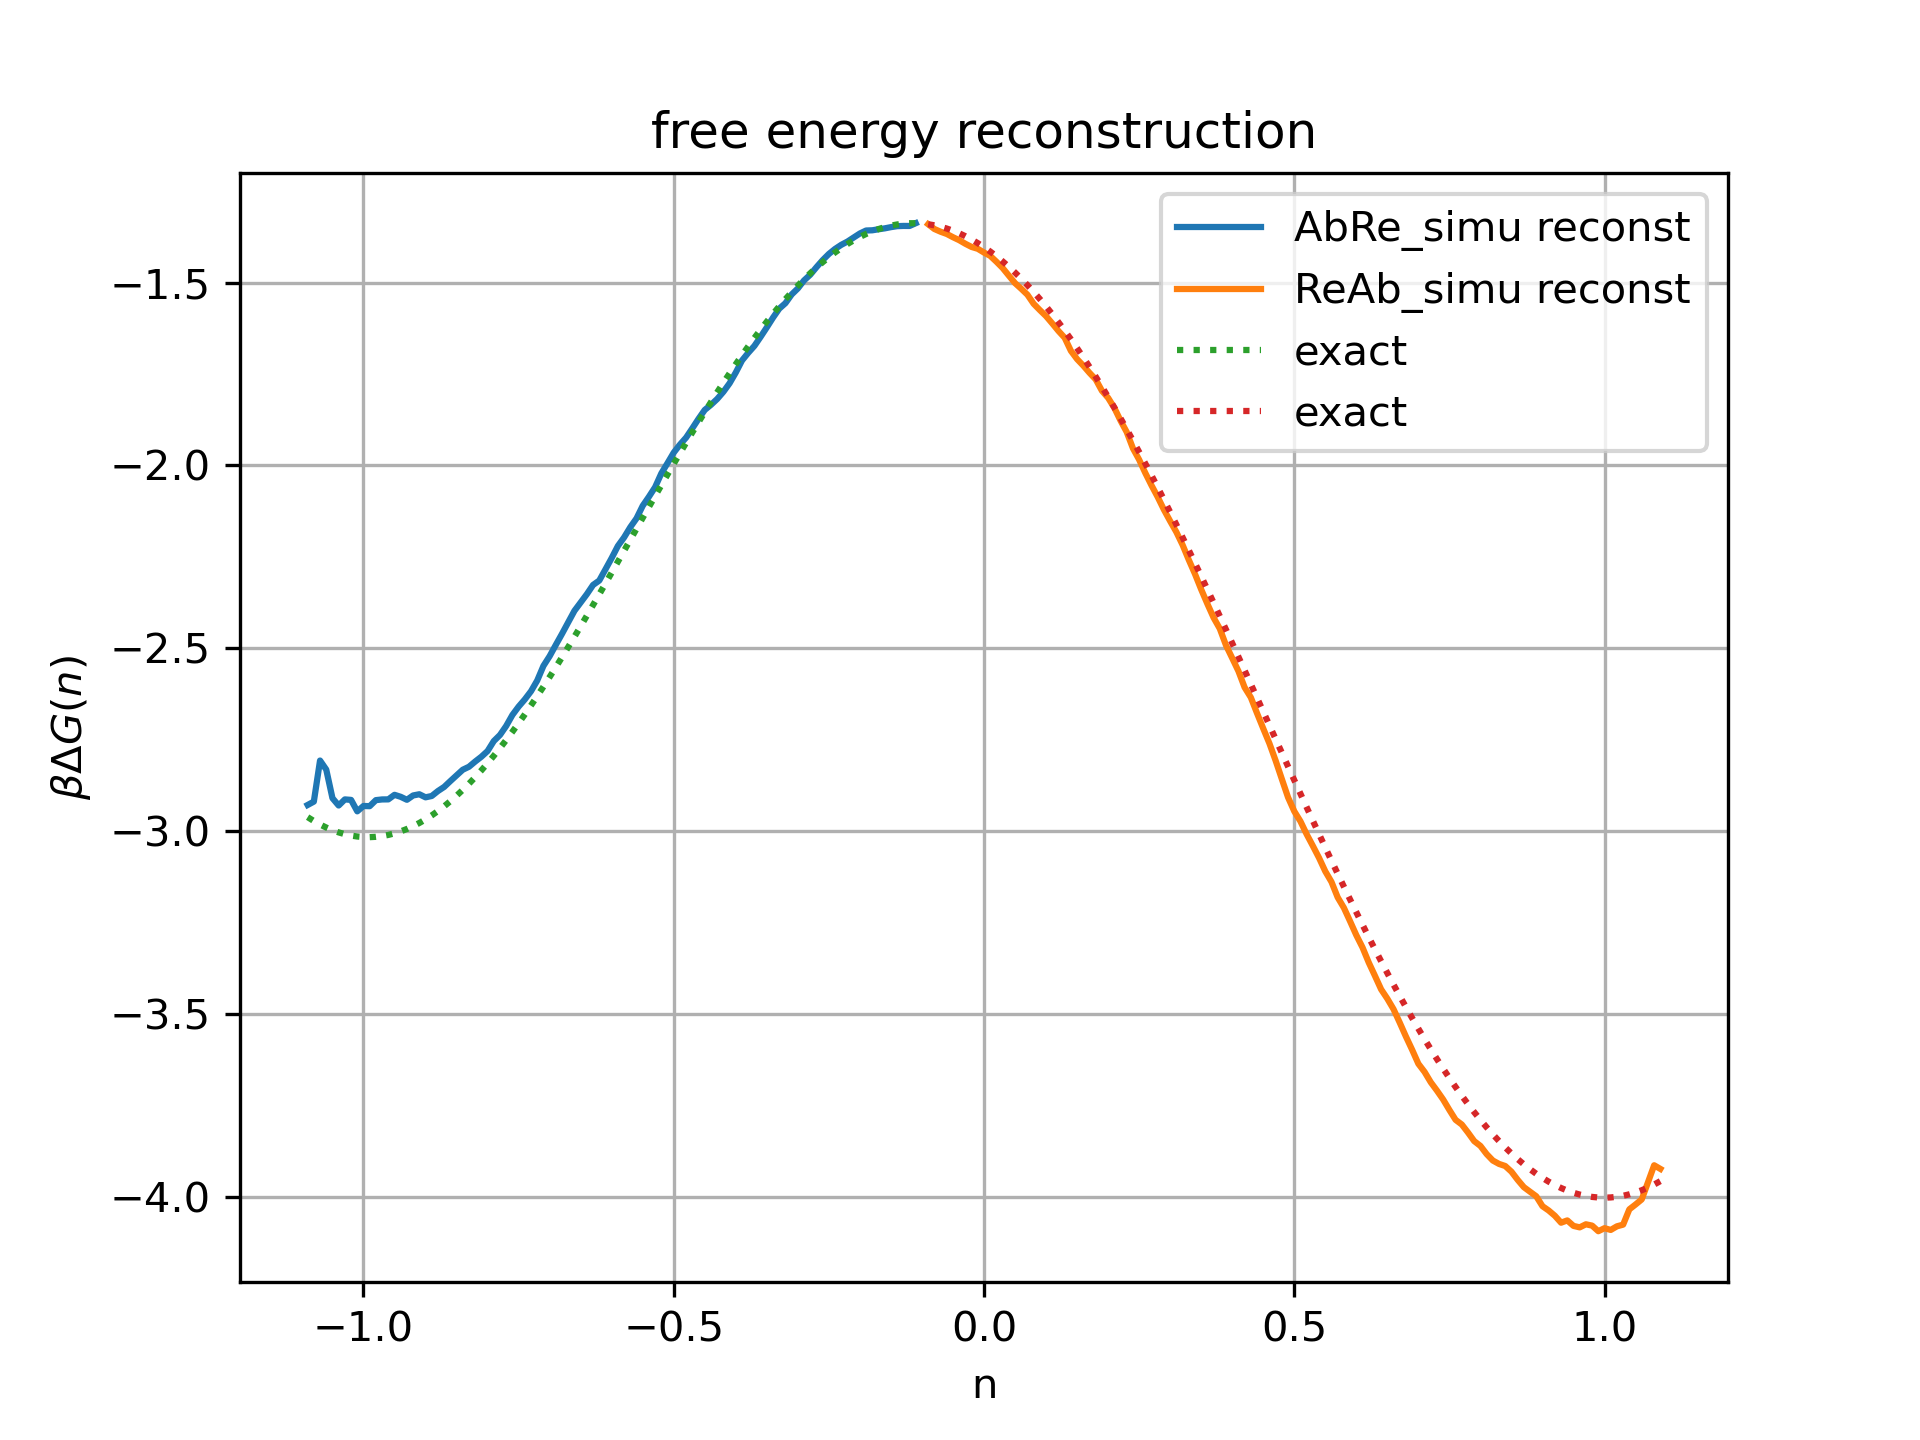
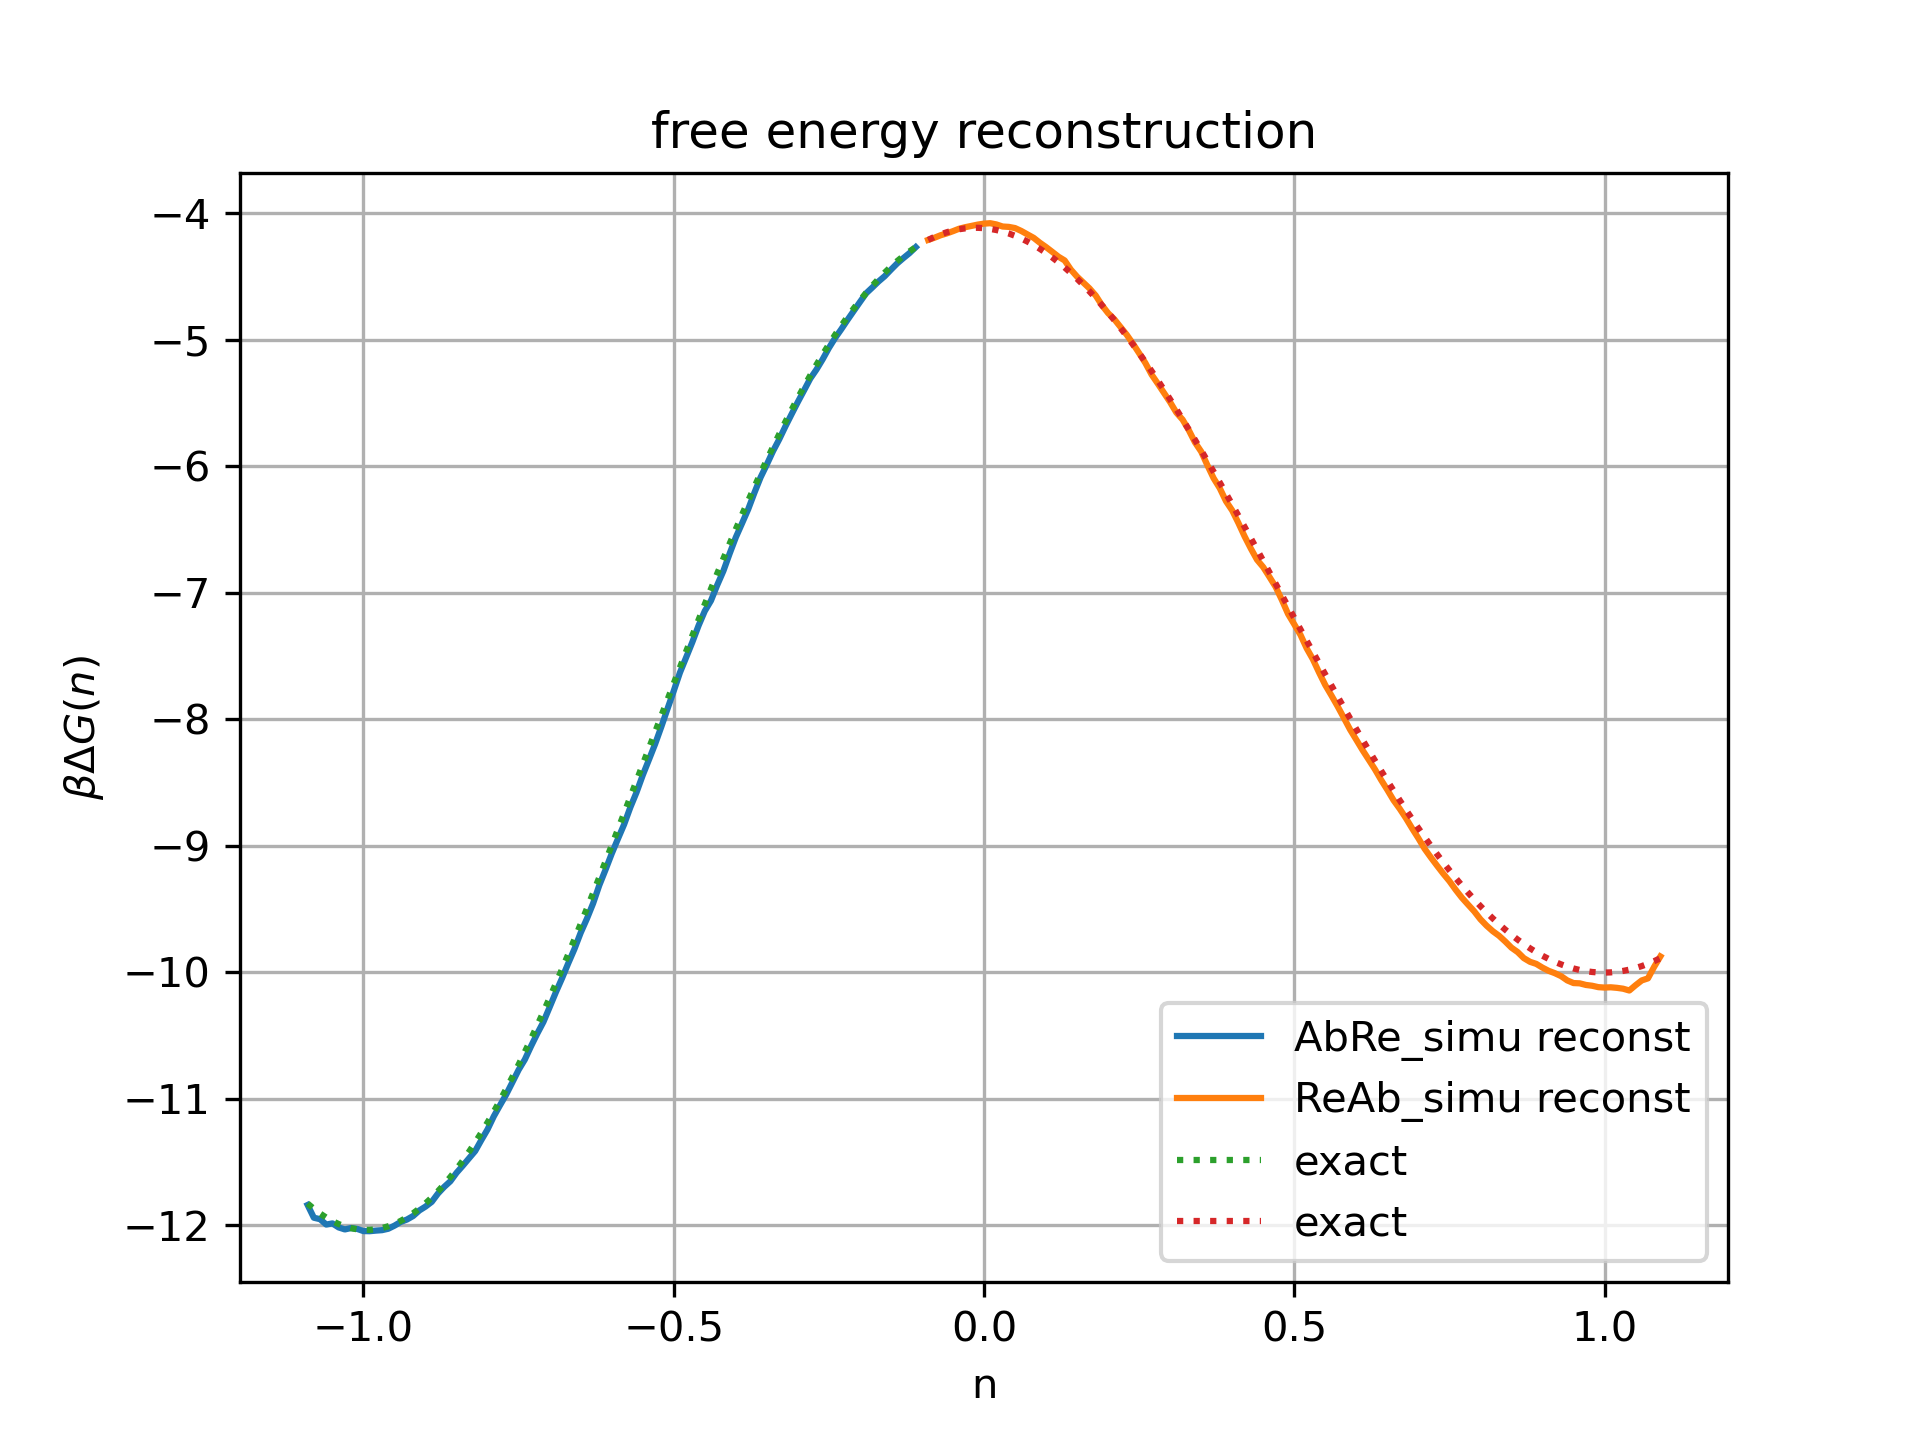
Two-region simulation script, data, and graphs for random walk with medium energy barrier

diff --git a/Two_region_method/Random_walk_Model/two_region_reconst_simulation.py b/Two_region_method/Random_walk_Model/two_region_reconst_simulation.py
@@ -6,8 +6,8 @@ from scipy.integrate import quad
 from scipy.interpolate import interp1d, PchipInterpolator, CubicSpline
 
 # Define the double-well potential using two Gaussian functions
-def double_gaussian_potential(x, A1=3, mu1=-1, sigma1=0.5, A2=4, mu2=1, sigma2=0.6):
-# def double_gaussian_potential(x, A1=12, mu1=-1, sigma1=0.5, A2=10, mu2=1, sigma2=0.6):
+# def double_gaussian_potential(x, A1=3, mu1=-1, sigma1=0.5, A2=4, mu2=1, sigma2=0.6):
+def double_gaussian_potential(x, A1=12, mu1=-1, sigma1=0.5, A2=10, mu2=1, sigma2=0.6):
 # def double_gaussian_potential(x, A1=30, mu1=-1, sigma1=0.5, A2=25, mu2=1, sigma2=0.6):
     V1 = A1 * np.exp(-((x - mu1)**2) / (2 * sigma1**2))
     V2 = A2 * np.exp(-((x - mu2)**2) / (2 * sigma2**2))
